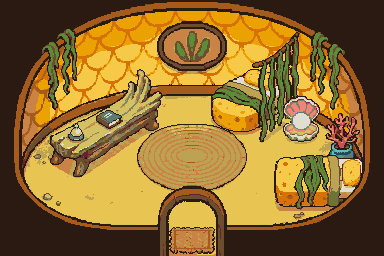
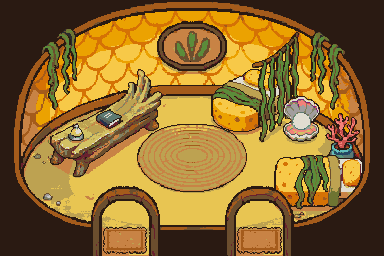
The Swishy Solace Inn has two doorways inside, like its two doors outside; each door leads to its own doorway and back; the guard post's gate says it's for guards only
Fixes #3

diff --git a/game/src/maps.js b/game/src/maps.js
@@ -56,10 +56,12 @@ export const MAPS = {
     entries: {
       start: { x: 290, y: 214, face: -1 }, south: { x: 512, y: 580, face: -1 },
       east: { x: 975, y: 330, face: -1 }, inn: { x: 800, y: 240, face: -1 }, home: { x: 512, y: 340, face: 1 },
-      finnDoor: { x: 186, y: 192, face: 1 }, martDoor: { x: 505, y: 198, face: 1 }, innDoor: { x: 819, y: 204, face: -1 }, bubbleDoor: { x: 158, y: 538, face: -1 },
+      finnDoor: { x: 186, y: 192, face: 1 }, martDoor: { x: 505, y: 198, face: 1 }, innDoor: { x: 819, y: 204, face: -1 }, innDoorL: { x: 789, y: 204, face: -1 }, innDoorR: { x: 849, y: 204, face: 1 }, bubbleDoor: { x: 158, y: 538, face: -1 },
     },
     riceRows: [[90, 566, 410], [620, 566, 940]],
     spawns: [], bites: [],
+    // the guard post's gate isn't a way in: it says so when you swim up to it
+    looks: [{ id: 'guardGate', x: 962, y: 224 }],
   },
 
   shallows: {
@@ -279,14 +281,26 @@ export const MAPS = {
 // `looks` = things you can examine with Talk (LOOKS in strings.js).
 const FLOOR = [['e', 193, 158, 168, 70, 1], ['r', 168, 196, 48, 60, 1, 2]];
 const EXIT = [176, 246, 32, 10];
-const room = (o) => ({
-  interior: true, w: 384, h: 256, safe: true, seed: 3, ambience: null, battleBg: 'shallows',
-  shapes: FLOOR, paths: [], buildings: [], props: [], gates: [], spawns: [], bites: [],
-  npcs: [], looks: [], solid: [], fg: [],
-  ...o,
-  exits: [{ rect: EXIT, to: o.parent, entry: o.outside }],
-  entries: { door: { x: 192, y: 206, face: 1 }, ...(o.entries || {}) },
-});
+// A room's doorways sit in the bottom wall, at doorXs (one, in the middle, unless the building
+// outside has more). Doorway i leads out to outsides[i]; building door i leads in to doorway i.
+const doorEntry = (i) => (i ? 'door' + i : 'door');
+const room = (o) => {
+  const xs = o.doorXs || [192];
+  const outs = o.outsides || [o.outside];
+  const entries = {};
+  xs.forEach((x, i) => { entries[doorEntry(i)] = { x, y: 206, face: 1 }; });
+  return {
+    interior: true, w: 384, h: 256, safe: true, seed: 3, ambience: null, battleBg: 'shallows',
+    shapes: [FLOOR[0], ...xs.map((x) => ['r', x - 24, FLOOR[1][2], 48, 60, 1, 2])],
+    paths: [], buildings: [], props: [], gates: [], spawns: [], bites: [],
+    npcs: [], looks: [], solid: [], fg: [],
+    ...o,
+    doorXs: xs,
+    exits: xs.map((x, i) => ({ rect: [x - EXIT[2] / 2, EXIT[1], EXIT[2], EXIT[3]], to: o.parent, entry: outs[i] || outs[0] })),
+    entries: { ...entries, ...(o.entries || {}) },
+  };
+};
+export { doorEntry };
 
 Object.assign(MAPS, {
   finnHouse: room({
@@ -304,8 +318,10 @@ Object.assign(MAPS, {
     looks: [{ id: 'martScale', x: 142, y: 152 }, { id: 'martJars', x: 92, y: 124 }, { id: 'martCrate', x: 304, y: 182, bite: 'martCrate' }],
   }),
   villageInn: room({
-    parent: 'village', outside: 'innDoor', backdrop: 'rm_inn', music: 'village',
-    solid: [[28, 76, 136, 96], [212, 70, 152, 62], [272, 148, 94, 60]],
+    parent: 'village', outside: 'innDoorL', backdrop: 'rm_inn', music: 'village',
+    // two front doors outside, two doorways inside: left leads to left, right to right
+    doorXs: [125, 260], outsides: ['innDoorL', 'innDoorR'],
+    solid: [[28, 76, 136, 96], [212, 70, 152, 62], [277, 152, 89, 56]],
     npcs: [{ id: 'seaweed', sprite: 'seaweed', x: 186, y: 112, face: -1 }],
     looks: [{ id: 'innBell', x: 150, y: 176 }, { id: 'innPods', x: 258, y: 178 }, { id: 'innSign', x: 192, y: 92 }],
     entries: { bed: { x: 236, y: 168, face: -1 } },

diff --git a/game/src/main.js b/game/src/main.js
@@ -7,7 +7,7 @@ import * as audio from './audio.js';
 import { input, ACTIONS, label, keyCap, padCap, escapeHtml, confirmCap, backCap } from './input.js';
 import { loadAll, img, hasReal, assetReport } from './assets.js';
 import { betta, hatted, plain, fromCanvas, drawFish, PLAYER_COLORS, portrait, bettaSwim } from './sprites.js';
-import { MAPS } from './maps.js';
+import { MAPS, doorEntry } from './maps.js';
 import { World, spriteCanvas, terrainFor } from './world.js';
 import { BattleScene } from './battlescene.js';
 import { createStory } from './story.js';
@@ -208,7 +208,7 @@ G.enterArea = async (id, entry, { wipe = true, quiet = false, door = false } = {
     }
   }
 };
-G.enterRoom = (id) => G.enterArea(id, 'door', { door: true });
+G.enterRoom = (id, idx = 0) => G.enterArea(id, doorEntry(idx), { door: true });
 
 G.world = null;
 G.collect = (q) => {
@@ -465,7 +465,7 @@ async function interact() {
   const it = G.world.interactTarget();
   if (!it) return;
   input.releaseAll();
-  if (it.kind === 'door') { if (!G.leaving) { G.leaving = true; G.enterRoom(it.ref.to).finally(() => { G.leaving = false; }); } return; }
+  if (it.kind === 'door') { if (!G.leaving) { G.leaving = true; G.enterRoom(it.ref.to, it.ref.idx).finally(() => { G.leaving = false; }); } return; }
   const p = G.world.player;
   if (Math.abs(it.x - p.x) > 4) p.face = it.x > p.x ? 1 : -1;
   if (it.ref && 'face' in it.ref && it.kind !== 'gate') it.ref.face = p.x > it.ref.x ? 1 : -1;
@@ -1197,7 +1197,7 @@ function update(dt, now) {
     if (G.mode === 'world' && G.world && canMove && !G.leaving) {
       const p = G.world.player;
       const dr = G.world.doorAhead(input.moveVector());
-      if (dr) { G.leaving = true; input.releaseAll(); G.enterRoom(dr.to).finally(() => { G.leaving = false; }); }
+      if (dr) { G.leaving = true; input.releaseAll(); G.enterRoom(dr.to, dr.idx).finally(() => { G.leaving = false; }); }
       for (const ex of G.leaving ? [] : G.world.def.exits || []) {
         const [x, y, w, h] = ex.rect;
         if (p.x >= x - 16 && p.x <= x + w + 16 && p.y >= y - 16 && p.y <= y + h + 16) {

diff --git a/game/src/world.js b/game/src/world.js
@@ -141,7 +141,7 @@ export class World {
       const doors = dxs.map((dx, i) => {
         const l = i > 0 ? Math.min(dx - 14, (dxs[i - 1] + dx) / 2) : dx - 14;
         const r = i < dxs.length - 1 ? Math.max(dx + 14, (dx + dxs[i + 1]) / 2) : dx + 14;
-        return { x: b.x + dx, y: fb, to: b.to, zone: [b.x + l, fb - 2, r - l, 22] };
+        return { x: b.x + dx, y: fb, to: b.to, idx: i, zone: [b.x + l, fb - 2, r - l, 22] };
       });
       return { ...b, w, h, foot, base: b.y + h - 2, canvas: c, doors };
     });
@@ -745,12 +745,14 @@ export class World {
   // the way out of a room: a gold chevron bobbing on the doormat, until you've used a door
   drawExitArrow(ctx, t) {
     if (this.s.hints.doorUsed) return;
-    const x = 192, y = 232 + Math.round(Math.sin(t * 4));
+    const y = 232 + Math.round(Math.sin(t * 4));
     const rows = [[0, 7], [1, 5], [2, 3], [3, 1]];
-    ctx.fillStyle = '#2A1A12';
-    for (const [r, w] of rows) ctx.fillRect(x - Math.ceil(w / 2) - 1, y + r - 1, w + 2, 3);
-    ctx.fillStyle = '#F7C948';
-    for (const [r, w] of rows) ctx.fillRect(x - Math.ceil(w / 2), y + r, w, 1);
+    for (const x of this.def.doorXs || [192]) {
+      ctx.fillStyle = '#2A1A12';
+      for (const [r, w] of rows) ctx.fillRect(x - Math.ceil(w / 2) - 1, y + r - 1, w + 2, 3);
+      ctx.fillStyle = '#F7C948';
+      for (const [r, w] of rows) ctx.fillRect(x - Math.ceil(w / 2), y + r, w, 1);
+    }
   }
   // a small blank driftwood board (its words show in the dialogue box)
   drawSign(ctx, x, y) {

diff --git a/game/src/strings.js b/game/src/strings.js
@@ -293,6 +293,7 @@ export const LOOKS = {
   homeTea: { label: 'Look at the tea set', lines: ['Kelp tea in a conch-shell pot. It\'s still warm, somehow, underwater.'], found: 'Under the teapot: two Betta Bites, for "emergencies".' },
   homeBed: { label: 'Look at the bed', lines: ['A big family sponge bed behind a kelp curtain. Somebody snores in it, most nights.'] },
   homeDrawing: { label: 'Look at the drawings', lines: ['A kid\'s drawings of the spillway pools, with a very big cichlid. Little Bream\'s, by the look of it.'] },
+  guardGate: { label: 'Look at the gate', lines: ['The guard post\'s gate is barred. A sign says GUARDS ONLY. Underneath, smaller: "and snacks for Captain Reef."'] },
   daceBoard: { label: 'Look at the board', lines: ['Sketches pinned to a cork board: a long dark shadow, the old outflow pipe, and red string joining them. Dace has been busy.'] },
   daceNotes: { label: 'Read the notebook', lines: ['"Night 41. Rice stalks swaying. Shadow in the pipe again, longer than last time. Tea gone cold."'] },
   daceScope: { label: 'Look through the spyglass', lines: ['It points out of the porthole, straight at the old outflow pipe. Nothing there now. Probably.'] },

diff --git a/design/STATUS.md b/design/STATUS.md
@@ -25,6 +25,8 @@
 21. "Actually, if you find any bugs, do a /gamegen:gamegen --fix all --publish --no-confirm after."
 22. `/gamegen --change give Minnow's Highwater home its own room picture instead of reusing Elder Finn's --publish --no-confirm`
 23. `/gamegen --change give the coral house its own orange room instead of sharing the lilac house's yellow one --publish --no-confirm`
+24. "Report an issue that The interior of the The Swishy Solace Inn should have two doors to match its exterior depiction. Make sure we're consistent in general. and then /fix it and publish no-confirm."
+25. #3: The Swishy Solace Inn's room should have two doors, like its outside (https://github.com/zeveck/bettarpg/issues/3)
 
 From: https://github.com/zeveck/bettarpg (zeveck's own repo; renamed to zeveck/bettarpg-original on 2026-11-21 so the remake could take zeveck/bettarpg), remake, leeway lots.
 Original untouched; this is a new folder and repo with fresh history.
